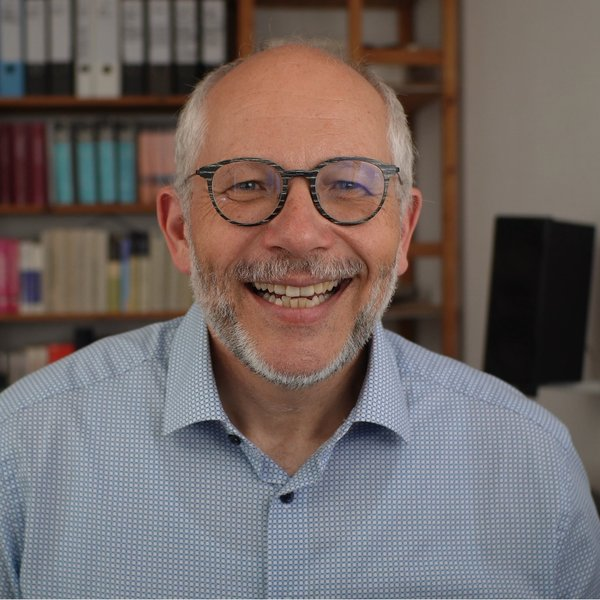
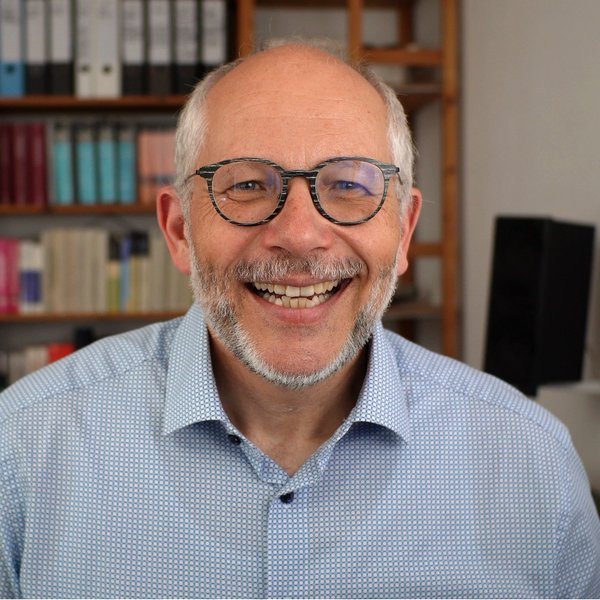
Vortragsseite: Ton-Symbol mittig und größer, Shorts-Reihenfolge nach Ulis Vorgabe, Porträt aufgehellt

diff --git a/templates/vortrag.html b/templates/vortrag.html
@@ -106,16 +106,18 @@
   }
   .clip-unmute {
     position: absolute;
-    top: 12px;
-    right: 12px;
-    width: 44px;
-    height: 44px;
+    top: 50%;
+    left: 50%;
+    transform: translate(-50%, -50%);
+    width: 80px;
+    height: 80px;
     border: 0;
     border-radius: 50%;
     background: rgba(0, 0, 0, 0.6);
     color: #fff;
-    font-size: 1.1rem;
+    font-size: 2rem;
     cursor: pointer;
+    box-shadow: 0 4px 16px rgba(0, 0, 0, 0.4);
   }
   .clip-unmute:hover,
   .clip-unmute:focus {
@@ -267,7 +269,8 @@
             <div class="person-body">
               <img src="/static/img/ulrich-probst.jpg" alt="Ulrich Probst" class="person-photo" width="150" height="150" loading="lazy">
               <div>
-            <p>Ulrich Probst hat Theologie an der Freien Theologischen Hochschule Gießen studiert und Linguistik an der Sommerakademie der Wycliff-Bibelübersetzer. Mit Wycliff war er als Soziolinguist und Verwaltungsleiter in der Zentralafrikanischen Republik tätig. Nach fünfzehn Jahren als Pastor arbeitet er seit 2016 an der Neuen Genfer Übersetzung, seit einigen Jahren an den Büchern des Alten Testaments.</p>
+            <p>Ulrich Probst hat Theologie an der Freien Theologischen Hochschule Gießen studiert und Linguistik an der Sommerakademie der Wycliff-Bibelübersetzer. Mit Wycliff war er als Soziolinguist und Verwaltungsleiter in der Zentralafrikanischen Republik tätig.</p>
+            <p>Nach fünfzehn Jahren als Pastor arbeitet er seit 2016 an der Neuen Genfer Übersetzung, seit einigen Jahren an den Büchern des Alten Testaments.</p>
             <p class="mb-0">Er ist verheiratet, Vater von drei erwachsenen Söhnen und lebt in Pohlheim bei Gießen.</p>
               </div>
             </div>

diff --git a/app.py b/app.py
@@ -1091,18 +1091,18 @@ def kontakt():
 # ==========================================
 
 # Redeausschnitte aus dem Vortrag "Kann man die Bibel überhaupt übersetzen?" (FeG Wetzlar),
-# Reihenfolge wie im Veröffentlichungsplan der Shorts. Dateien liegen unter static/video/,
+# Reihenfolge von Uli festgelegt (16.09.2026), weicht vom Veröffentlichungsplan ab. Dateien liegen unter static/video/,
 # Poster unter static/img/ (gleicher Name, .jpg). Nur vorhandene Dateien werden ausgespielt.
 SPEAKER_TALK_CLIPS = [
     ('short-01-ehepaar', 'Eine E-Mail an die falsche Adresse …'),
-    ('short-05-stille-post', 'Ist die Bibel stille Post über 2000 Jahre?'),
     ('short-07-chef', 'Warum wörtliches Übersetzen so einleuchtend scheint'),
     ('short-08-kommunikation', 'Wie Kommunikation wirklich funktioniert'),
-    ('short-10-unverstanden', 'Was tun mit Bibelstellen, die man nicht versteht?'),
     ('short-02-hebraeer', 'Jeder Übersetzer hat mal einen schlechten Tag'),
+    ('short-03-paulus', 'Paulus in Stückchen: Warum viele ihn falsch verstehen'),
+    ('short-10-unverstanden', 'Was tun mit Bibelstellen, die man nicht versteht?'),
+    ('short-05-stille-post', 'Ist die Bibel stille Post über 2000 Jahre?'),
     ('short-06-jesaja', '1100 Jahre später: 99 Prozent identisch'),
     ('short-09-hirte', 'Der Herr ist mein Hirte: Was Israel dabei hörte'),
-    ('short-03-paulus', 'Paulus in Stückchen: Warum viele ihn falsch verstehen'),
     ('short-11-interpretation', 'Ist Übersetzung immer Interpretation?'),
     ('short-04-klagelieder', 'Nach drei Kapiteln Klage kommt dieser Satz'),
     ('short-12-sorgfalt', 'Wie sorgfältig arbeiten Bibelübersetzer?'),
